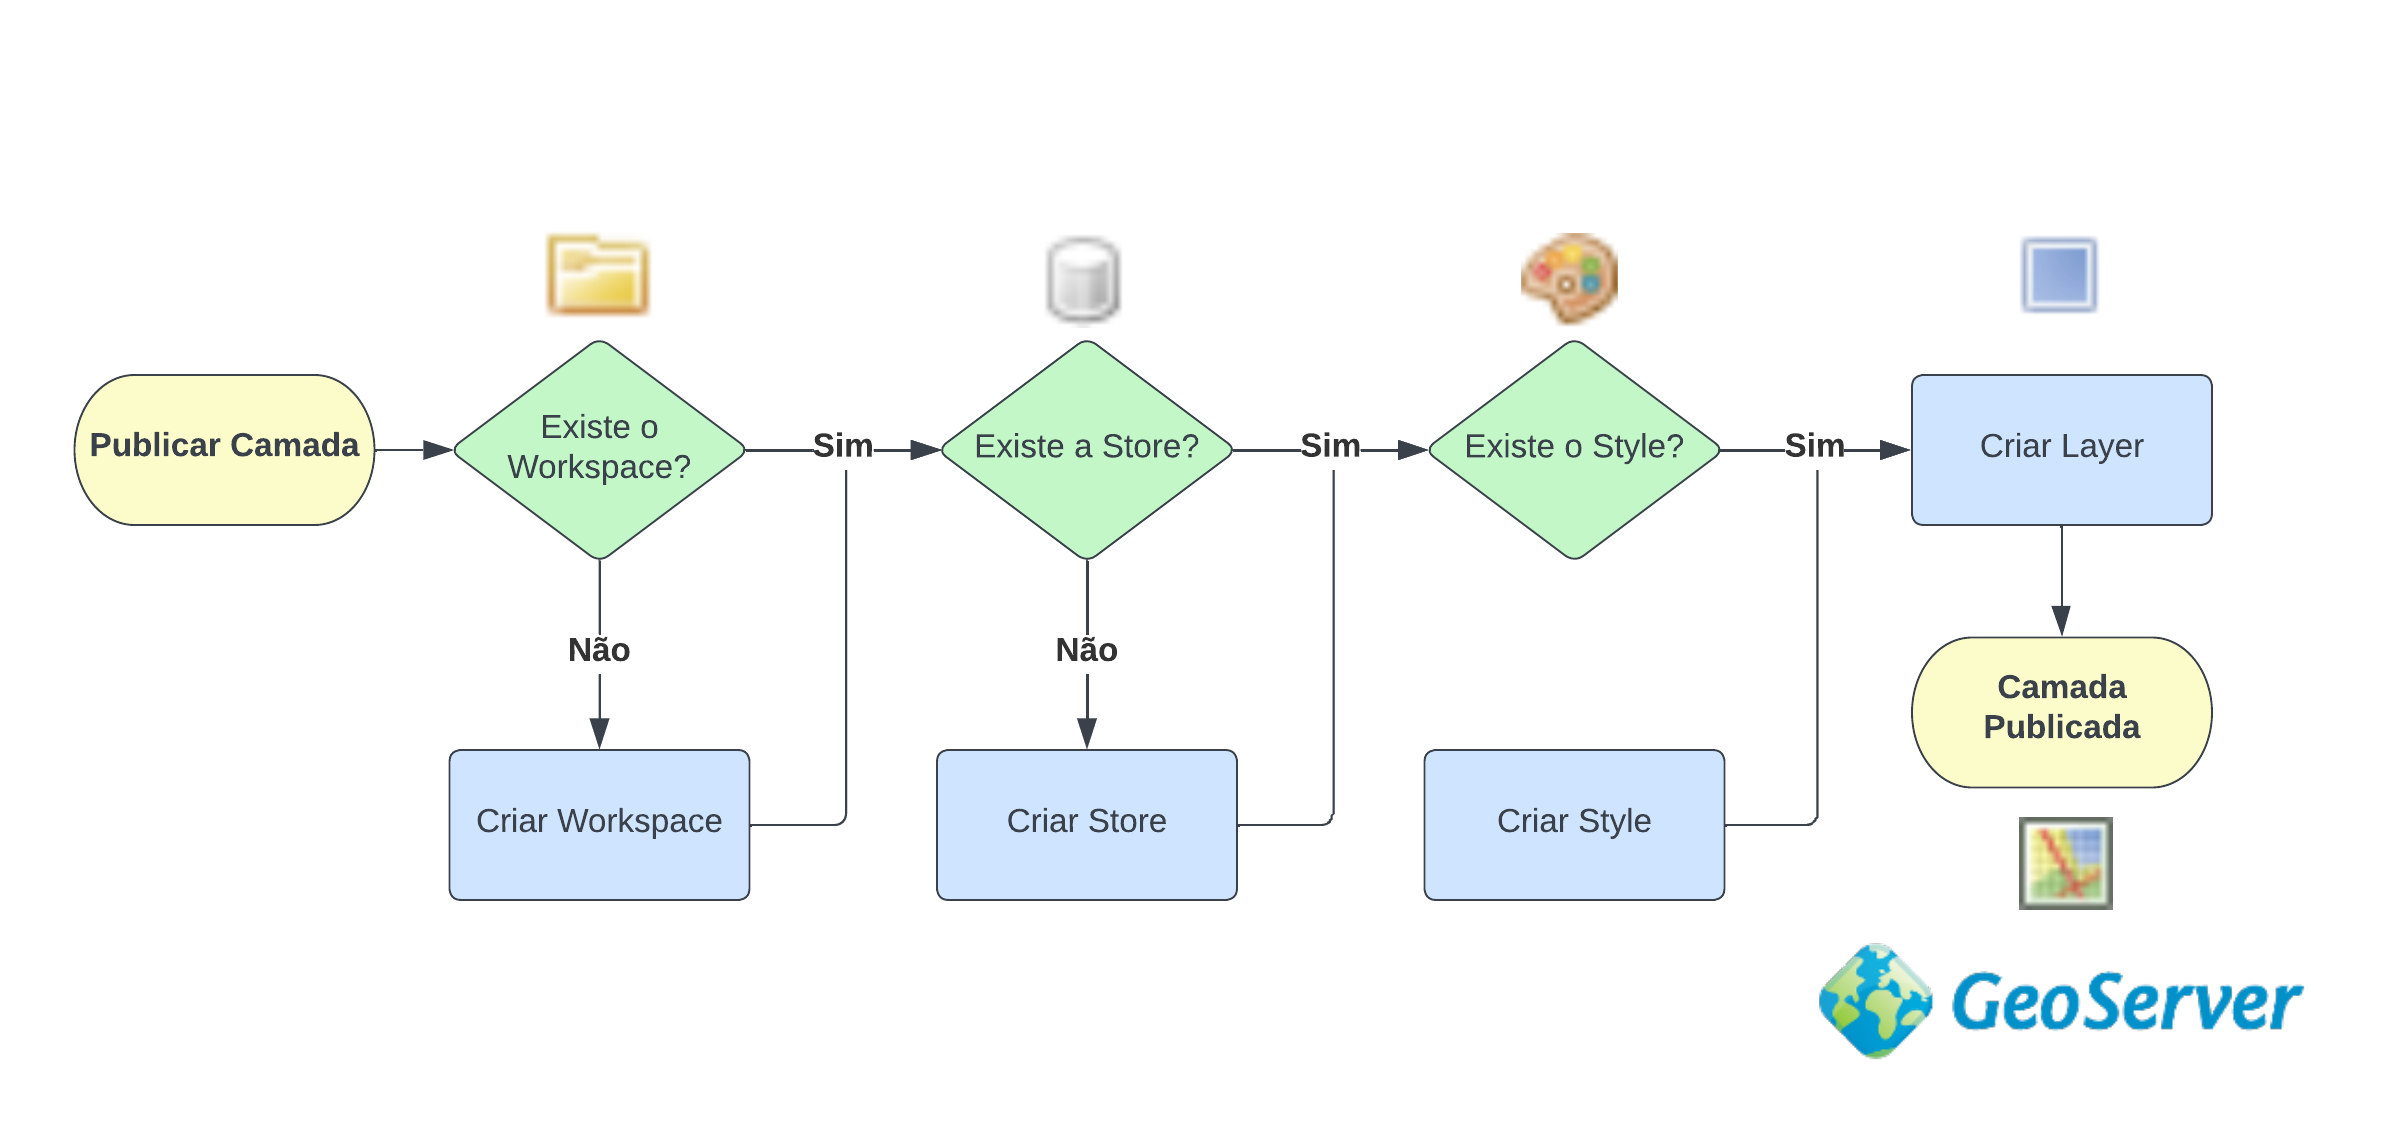
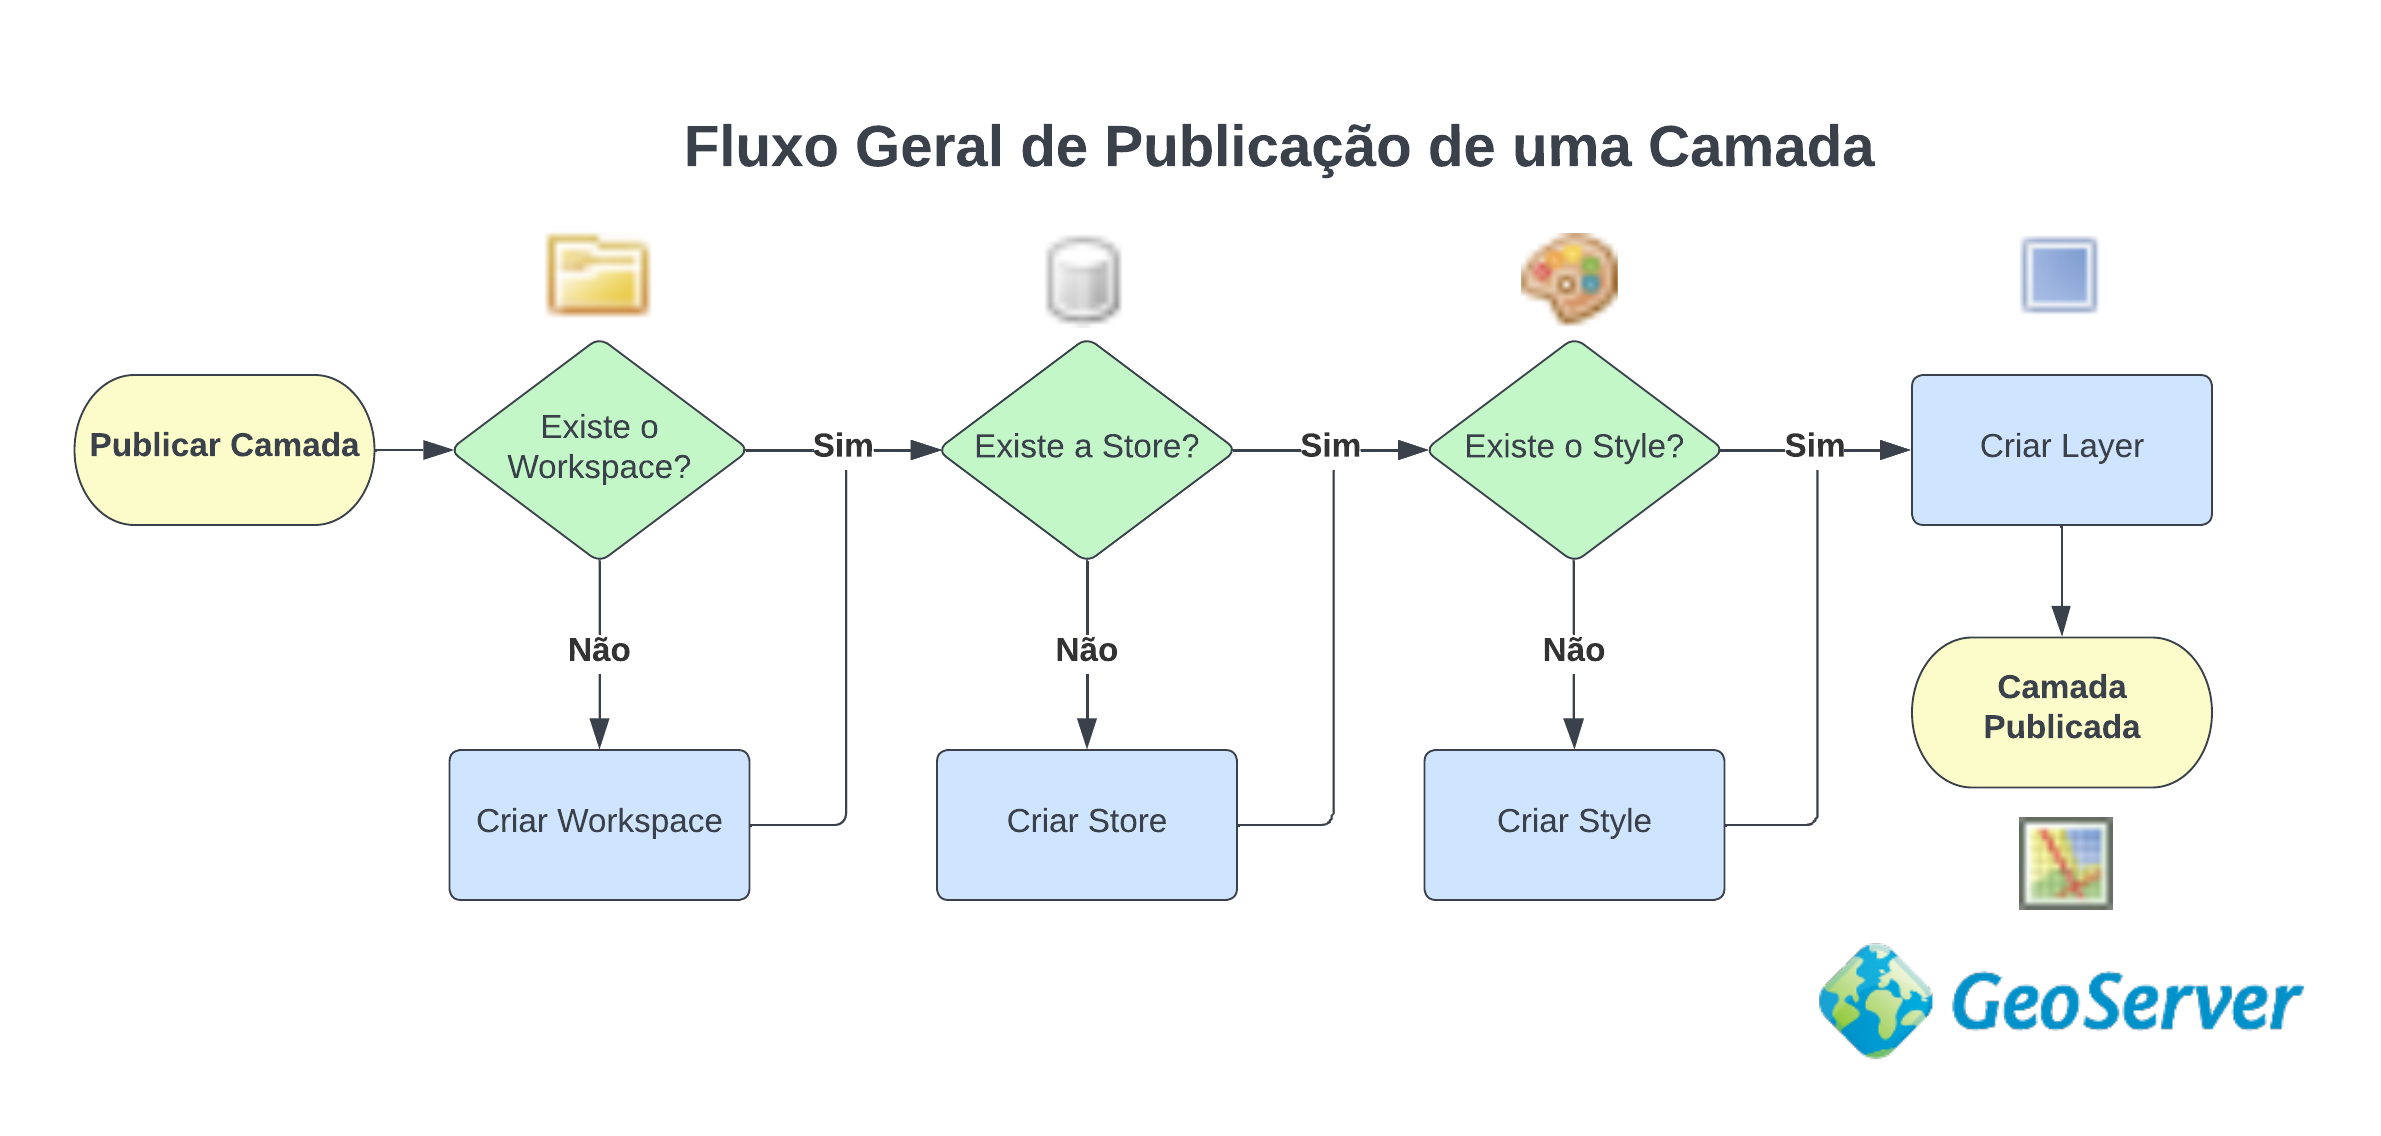
ajusta curso

Changed region(s): [[0.2797, 0.0924, 0.8081, 0.154], [0.6527, 0.6162, 0.6837, 0.647], [0.6527, 0.5546, 0.6837, 0.5854]]

diff --git a/geoserver/1-introducao.md b/geoserver/1-introducao.md
@@ -97,7 +97,6 @@ workspace_pb
 
 ```
 
-
 ### Stores
 
 ![Store](../img/ui_datastores.png)
@@ -127,7 +126,46 @@ Mais informações sobre a linguagem SLD podem ser obtidas através dos links ab
 Este termo no GeoServer, refere-se a dados vetoriais ou matriciais publicados no servidor. Caso o dado seja vetorial, os layers são denominados de
 *Feature Types* e para os dados matriciais estas camadas são denominadas de *coverages*.
 
-
-## Fluxo Geral de Publicação de uma Camada no GeoServer
+<hr>
 
 ![Fluxo de Publicação](../img/fluxo_geoserver.png)
+
+<hr>
+
+### Publicando Dados Vetoriais (Shapefile)
+
+1. Crie um `Workspace`: na interface web do Geoserver, clique na guia `Workspaces` e depois no botão `New Workspace`. Insira um nome para o seu espaço de trabalho e clique em `Save`.
+
+![publicando dados vetoriais - 1](../img/vect1.jpg)
+
+
+2. Crie um `Store`: clique na guia `Stores` e depois no botão `Add new Store`, em seguida clique na opção `Shapefile`. Escolha o shapefile que deseja publicar.
+
+
+![publicando dados vetoriais - 2](../img/vect2.jpg)
+
+
+3. Após preencher a tela anterior, clique em `Save` e passe para a próxima tela `Layer` -> `New layer`, clique em `publish`.
+
+![publicando dados vetoriais - 3](../img/vect3.jpg)
+
+4. Na tela `Edit Layer` preencha os metadados da camada.
+
+![publicando dados vetoriais - 4](../img/vect4.jpg)
+
+5. Role esta tela para baixo, até a opção `Bounding Boxes`, clique nos botões `Compute from data` e `Compute from native bounds`. Depois clique em `Save`.
+
+![publicando dados vetoriais - 5](../img/vect5.jpg)
+
+6. Crie um novo `Style`: no QGIS, defina a simbologia da sua camada e a salve como **SLD**. Abra a aba `Style` do GeoServer e faça o upload do arquivo SLD gerado, em seguida clique em `Apply`.
+
+
+![publicando dados vetoriais - 6](../img/vect6.jpg)
+
+7. Na aba `Publishing` associe o estilo criado a sua camada. Clique em `Save`.
+
+![publicando dados vetoriais - 7](../img/vect7.jpg)
+
+8. Clique na guia `Layer Preview`, escolha a camada publicada anteriormente e em seguida, clique na opção `OpenLayers` para visualizar a camada.
+
+![publicando dados vetoriais - 8](../img/vect8.jpg)

diff --git a/intro/1-introducao.md b/intro/1-introducao.md
@@ -1,0 +1,16 @@
+## 1. SIG-Web: uma Abordagem Geral
+
+
+SIG-WEB (Sistema de Informação Geográfica para Web) pode ser definido como um conjunto de tecnologias e técnicas que permitem a criação de aplicativos de SIG na web. Esse tipo de sistema permite a visualização, análise e compartilhamento de dados geográficos na internet.
+
+<div align="center">
+<img src="../img/webgis-intro.jpg" />
+</div>
+
+
+### Principais Tecnologias de um WebGIS
+
+<div align="center">
+<img src="../img/maptime-anatomy.jpg" />
+<small>FONTE: https://maptime.io/anatomy-of-a-web-map</small>
+</div>

diff --git a/README.md b/README.md
@@ -4,7 +4,10 @@
 
 ## ÍNDICE
 
-#### [1. GeoServer][1]
+#### [1. SIG-Web: uma Abordagem Geral][1]
 
-[1]:geoserver/1-introducao.md
+#### [2. GeoServer][2]
 
+[1]:intro/1-introducao.md
+
+[2]:geoserver/1-introducao.md
